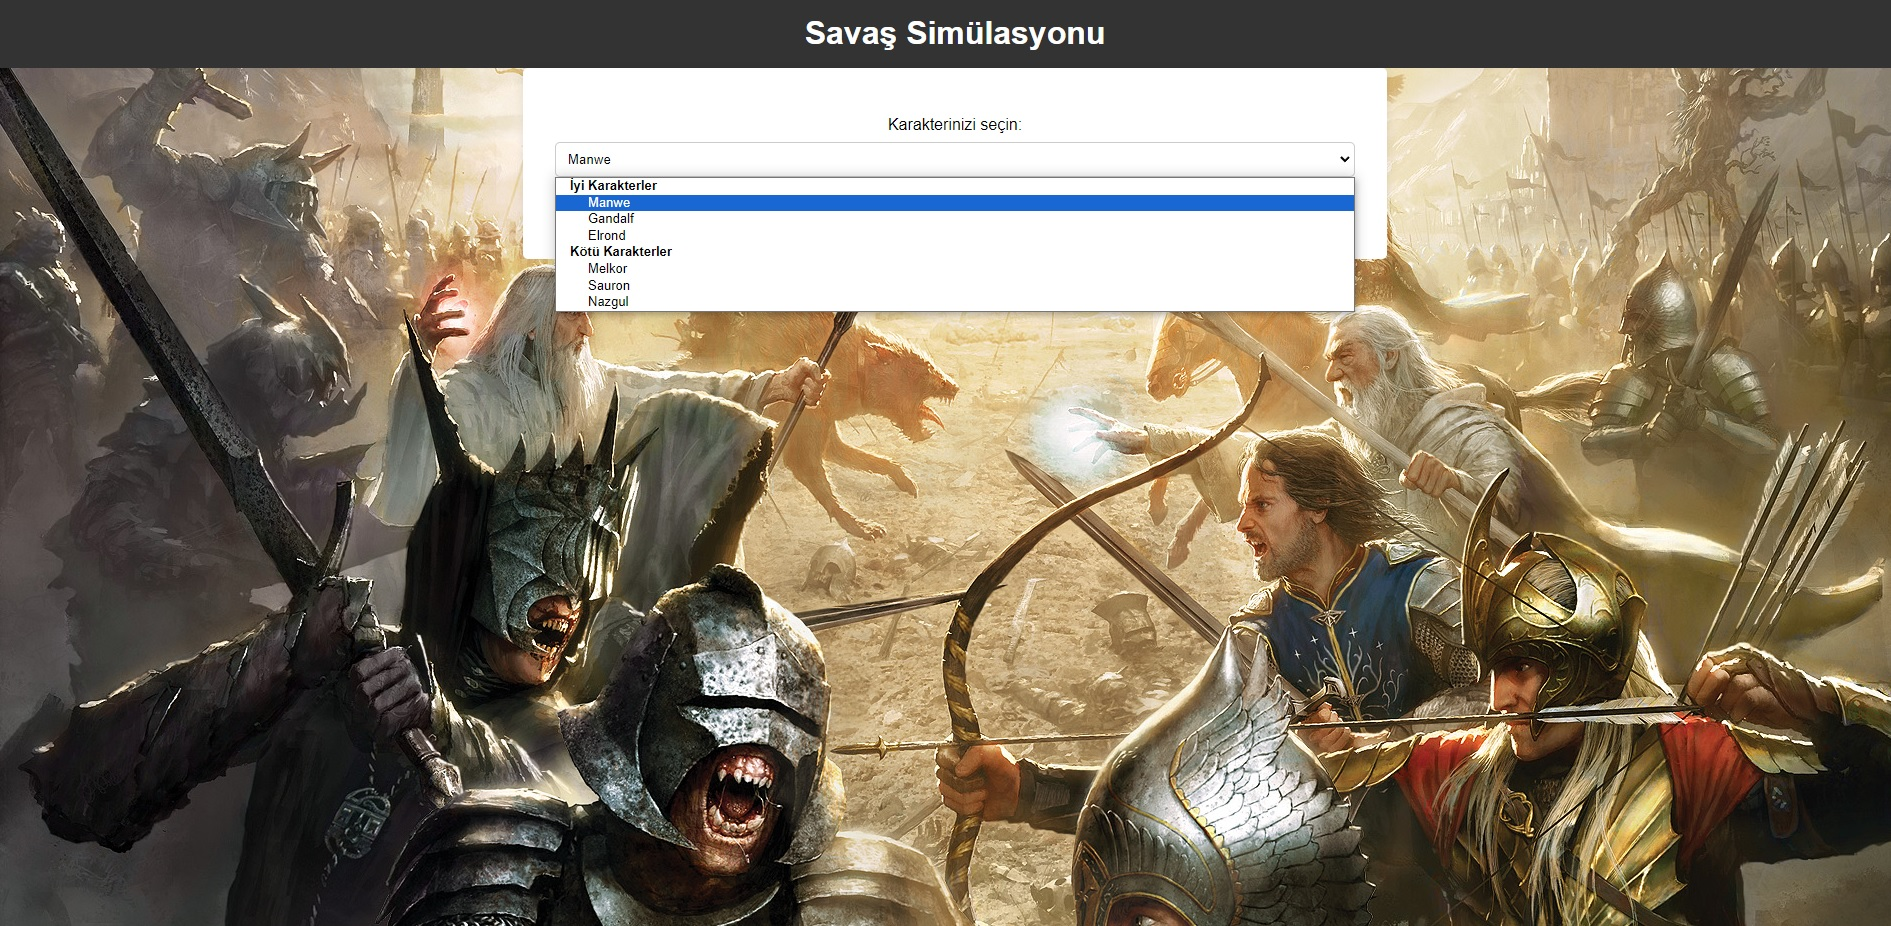
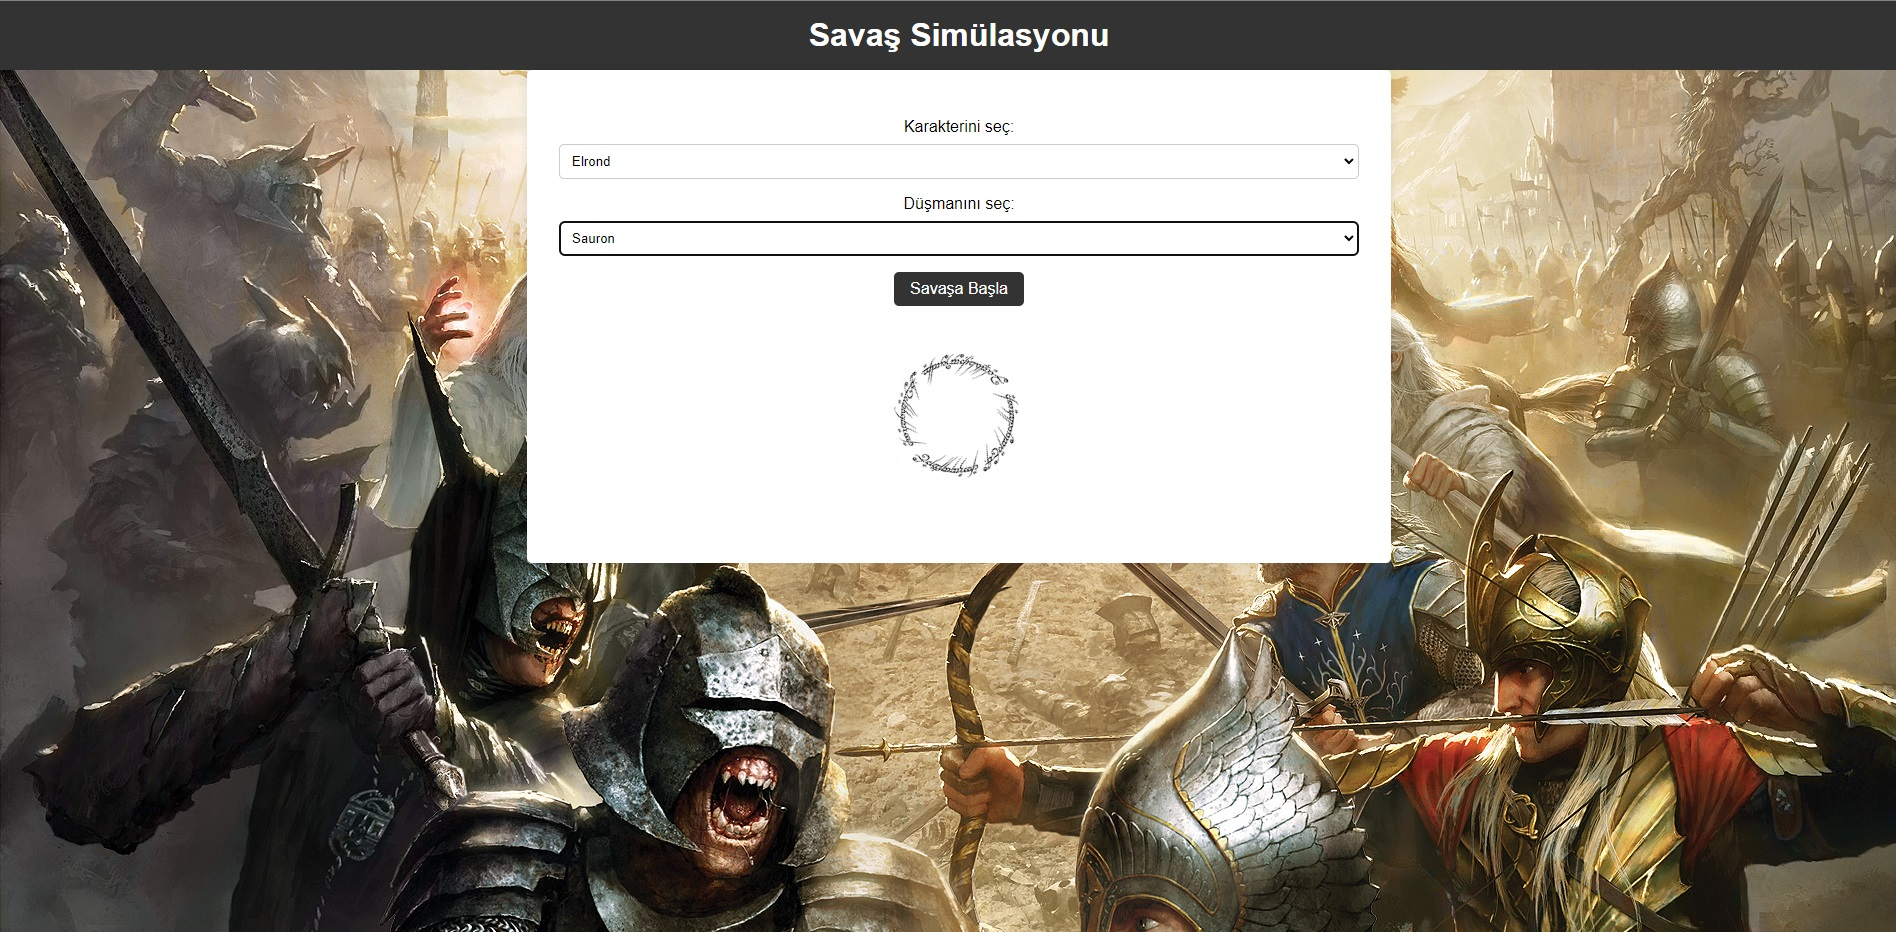
Add files via upload

diff --git a/templates/result.html b/templates/result.html
@@ -8,30 +8,28 @@
     <header>
         <h1>Savaş Sonucu</h1>
     </header>
-
     <div class="container">
-        <p><h3>Kazanan: {{ kazanan }}</h3></p>
-        <p>Saldırı Gücü: {{ saldiri1 }}</p>
-        <p>Kalan Can: {{ kalanCan }}</p>
-        <p>Kalan Büyü Sayısı: {{ kalanBuyu }}</p>
-        <p><h3>Kaybeden: {{ kaybeden }}</h3></p>
-        <p>Saldırı Gücü: {{ saldiri2 }}</p>
-        <p>Kalan Can: {{ kaybedenCan }}</p>
-        <p>Kalan Büyü Sayısı: {{ kaybedenBuyu }}</p>
+        <p><h3>Kazanan: {{ winner }}</h3></p>
+        <p>Saldırı Gücü: {{ attack1 }}</p>
+        <p>Kalan Can: {{ winnerHealth }}</p>
+        <p>Kalan Büyü Sayısı: {{ winnerMagic }}</p>
+        <p><h3>Kaybeden: {{ loser }}</h3></p>
+        <p>Saldırı Gücü: {{ attack2 }}</p>
+        <p>Kalan Can: {{ loserHealth }}</p>
+        <p>Kalan Büyü Sayısı: {{ loserMagic }}</p>
         <a href="http://127.0.0.1:5000/">
         <button>Savaş Simülasyonunu Yeniden Başlat</button>
-        </a>
-        {% if kazanan == "Manwe" %}
+        {% if winner == "Manwe" %}
             <img src="{{ url_for('static', filename='manwe.jpg') }}" alt="Manwe Resmi">
-        {% elif kazanan == "Gandalf" %}
+        {% elif winner == "Gandalf" %}
             <img src="{{ url_for('static', filename='gandalf.jpg') }}" alt="Gandalf Resmi">
-        {% elif kazanan == "Elrond" %}
+        {% elif winner == "Elrond" %}
             <img src="{{ url_for('static', filename='elrond.jpg') }}" alt="Elrond Resmi">
-        {% elif kazanan == "Melkor" %}
+        {% elif winner == "Melkor" %}
             <img src="{{ url_for('static', filename='melkor.jpg') }}" alt="Melkor Resmi">
-        {% elif kazanan == "Sauron" %}
+        {% elif winner == "Sauron" %}
             <img src="{{ url_for('static', filename='sauron.jpg') }}" alt="Sauron Resmi">
-        {% elif kazanan == "Nazgul" %}
+        {% elif winner == "Nazgul" %}
             <img src="{{ url_for('static', filename='nazgul.jpg') }}" alt="Nazgul Resmi">
         {% endif %}
     </div>

diff --git a/templates/index.html b/templates/index.html
@@ -11,8 +11,8 @@
 
     <div class="container">
         <form method="POST" action="/">
-            <label for="karakter">Karakterinizi seçin:</label>
-            <select id="karakter" name="karakter">
+            <label for="character">Karakterini seç:</label>
+            <select id="character" name="character">
                 <optgroup label="İyi Karakterler">
                     <option value="1">Manwe</option>
                     <option value="2">Gandalf</option>
@@ -24,8 +24,26 @@
                     <option value="6">Nazgul</option>
                 </optgroup>
             </select>
-            <button type="submit">Savaşa Başla</button>
-        </form>
+            <form method="POST" action="/">
+                <label for="enemy">Düşmanını seç:</label>
+                <select id="enemy" name="enemy">
+                    <optgroup label="İyi Karakterler">
+                        <option value="1">Manwe</option>
+                        <option value="2">Gandalf</option>
+                        <option value="3">Elrond</option>
+                    </optgroup>
+                    <optgroup label="Kötü Karakterler">
+                        <option value="4">Melkor</option>
+                        <option value="5">Sauron</option>
+                        <option value="6">Nazgul</option>
+                    </optgroup>
+                </select>
+            <button type="submit">Savaşa Başla</button>       
+        </form>        
+    </form>
+    <div class="ring">
+    <img src="{{ url_for('static', filename='onering.jpg') }}" alt="Tek Yüzük">
     </div>
+</div>
 </body>
 </html>

diff --git a/static/style.css b/static/style.css
@@ -74,8 +74,23 @@ button:hover {
 }
 
 img {
-    border: 2px solid #0c0b0b;
-    border-radius: 5px;
+    /* border: 2px solid #0c0b0b;
+    border-radius: 5px; */
     margin: 10px auto;
     display: block;
+}
+
+.ring {
+    padding: 2rem 2rem;
+    display: block;
+    animation: rotateRing 10s linear infinite;
+}
+
+@keyframes rotateRing {
+    0% {
+        transform: rotate(0deg);
+    }
+    100% {
+        transform: rotate(360deg);
+    }
 }

diff --git a/app.py b/app.py
@@ -18,6 +18,7 @@ class Dusman:
         print(f"Kalan büyü sayısı: {self.buyu} ")
         verilenZarar = harcananBuyu * self.saldiriGucu
         print("Verilen zarar: ", verilenZarar)
+        
         return (harcananBuyu, self.saldiriGucu, verilenZarar)
     def saldiriyaUgra(self, harcananBuyu, saldiriGucu):
         print(f"{self.isim}: Saldırıya uğruyorum...")
@@ -37,9 +38,10 @@ class Dusman:
         print("İsim:", self.isim, "\n" "Kalan Can:", self.can, "\n" "Saldırı Gücü:", self.saldiriGucu, "\n" "Kalan Büyü Sayısı:", self.buyu)
 
 @app.route("/", methods=["GET", "POST"])
-def savaş_simülasyonu():
+def battleSimulation():
     if request.method == "POST":
-        karakter = int(request.form.get("karakter"))
+        character = int(request.form.get("character"))
+        enemy = int(request.form.get("enemy"))
             
         melkor = Dusman("Melkor", 6000, 900, 10)
         sauron = Dusman("Sauron", 2000, 300, 10)
@@ -49,51 +51,57 @@ def savaş_simülasyonu():
         gandalf = Dusman("Gandalf", 2500, 400, 10)
         elrond = Dusman("Elrond", 1500, 200, 10)
 
-        evil = [melkor, sauron, nazgul]
-        good = [manwe, gandalf, elrond]
-        if karakter == 1:
-            karakter = manwe
-        if karakter == 2:
-            karakter = gandalf
-        if karakter == 3:
-            karakter = elrond
-        if karakter == 4:
-            karakter = melkor
-        if karakter == 5:
-            karakter = sauron
-        if karakter == 6:
-            karakter = nazgul
-        if karakter in evil:
-            rastgele = random.choice(good)
-        if karakter in good:
-            rastgele = random.choice(evil)    
-        donenDeger1 = karakter.saldir()
-        rastgele.saldiriyaUgra(donenDeger1[0], donenDeger1[1])
-        rastgele.buyuBittiMi()
-        rastgele.hayattaMi()
-        donenDeger2 = rastgele.saldir()
-        karakter.saldiriyaUgra(donenDeger2[0], donenDeger2[1])
-        karakter.buyuBittiMi()
-        karakter.hayattaMi()
-        if karakter.can > rastgele.can:
-            kazanan = karakter.isim
-            kaybeden = rastgele.isim
-            saldiri1 = karakter.saldiriGucu
-            saldiri2 = rastgele.saldiriGucu
-            if rastgele.can <= 0:
-                rastgele.can = 0
-                return render_template("result.html", kazanan = kazanan, saldiri1 = saldiri1, kalanCan = karakter.can, kalanBuyu = karakter.buyu, kaybeden = kaybeden, saldiri2 = saldiri2, kaybedenCan = rastgele.can, kaybedenBuyu = rastgele.buyu)
-        elif rastgele.can > karakter.can:
-            kazanan = rastgele.isim
-            kaybeden = karakter.isim
-            saldiri1 = rastgele.saldiriGucu
-            saldiri2 = karakter.saldiriGucu
-            if karakter.can <= 0:
-                karakter.can = 0
-                return render_template("result.html", kazanan = kazanan, saldiri1 = saldiri1, kalanCan = rastgele.can, kalanBuyu = rastgele.buyu, kaybeden = kaybeden, saldiri2 = saldiri2, kaybedenCan = karakter.can, kaybedenBuyu = karakter.buyu)
+        if character == 1:
+            character = manwe
+        if character == 2:
+            character = gandalf
+        if character == 3:
+            character = elrond
+        if character == 4:
+            character = melkor
+        if character == 5:
+            character = sauron
+        if character == 6:
+            character = nazgul
+        if enemy == 1:
+            enemy = manwe
+        if enemy == 2:
+            enemy = gandalf
+        if enemy == 3:
+            enemy = elrond
+        if enemy == 4:
+            enemy = melkor
+        if enemy == 5:
+            enemy = sauron
+        if enemy == 6:
+            enemy = nazgul
+        donenDeger1 = character.saldir()
+        enemy.saldiriyaUgra(donenDeger1[0], donenDeger1[1])
+        enemy.buyuBittiMi()
+        enemy.hayattaMi()
+        donenDeger2 = enemy.saldir()
+        character.saldiriyaUgra(donenDeger2[0], donenDeger2[1])
+        character.buyuBittiMi()
+        character.hayattaMi()
+        if character.can > enemy.can:
+            winner = character.isim
+            loser = enemy.isim
+            attack1 = character.saldiriGucu
+            attack2 = enemy.saldiriGucu
+            if enemy.can <= 0:
+                enemy.can = 0
+                return render_template("result.html", winner = winner, attack1 = attack1, winnerHealth = character.can, winnerMagic = character.buyu, loser = loser, attack2 = attack2, loserHealth = enemy.can, loserMagic = enemy.buyu)
+        elif enemy.can > character.can:
+            winner = enemy.isim
+            loser = character.isim
+            attack1 = enemy.saldiriGucu
+            attack2 = character.saldiriGucu
+            if character.can <= 0:
+                character.can = 0
+                return render_template("result.html", winner = winner, attack1 = attack1, winnerHealth = enemy.can, winnerMagic = enemy.buyu, loser = loser, attack2 = attack2, loserHealth = character.can, loserMagic = character.buyu)
         else:
             print("Savaş berabere bitti.")
-    return render_template("index.html")
+    return render_template("index.html")    
 
 if __name__ == "__main__":
     app.run(debug=True)

diff --git a/README.MD b/README.MD
@@ -1,5 +1,5 @@
 # Yüzüklerin Efendisi Minimal Savaş Simülasyonu
-Python fonksiyonlarını, Flask framework'ünü ve HTML-CSS kodlarını kullanarak; Orta Dünya karakterlerinden birini seçip düşman sınıfından rastgele bir karakterle savaştırabileceğiniz, kazananın da görselini görebileceğiniz, minimal bir savaş simülasyonu yaptım. 
+Python fonksiyonlarını, Flask framework'ünü ve HTML-CSS kodlarını kullanarak; Orta Dünya karakterlerinden birini seçip istediğiniz bir düşmanla savaştırabileceğiniz, kazananın da görselini görebileceğiniz, minimal bir savaş simülasyonu yaptım. Arayüz tasarımında ortada yer alan yüzük kinetiktir, yani etrafında dönmektedir. 
 <img src="images/image1.jpg">
 
 <img src="images/image2.jpg">
